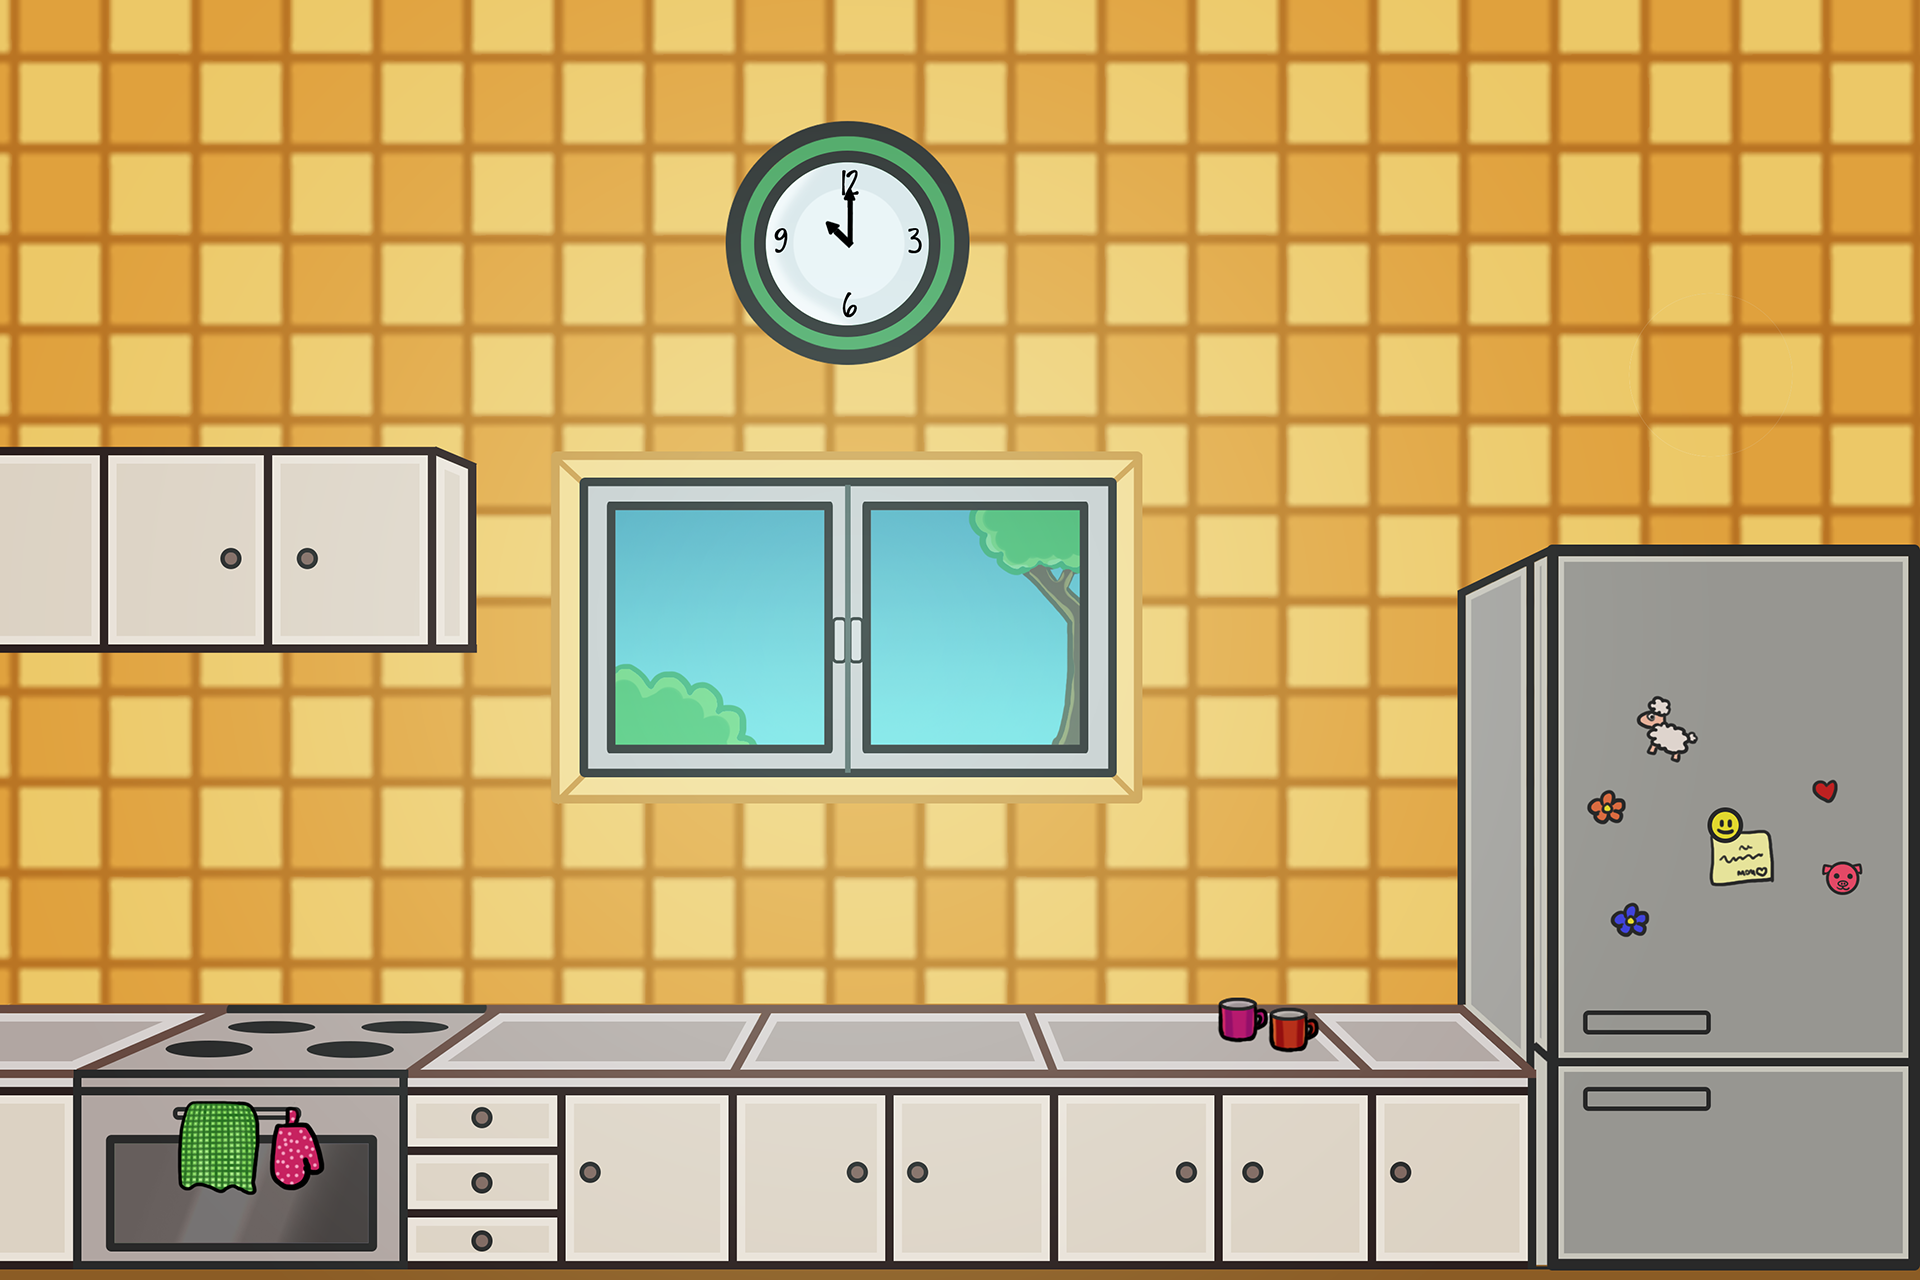
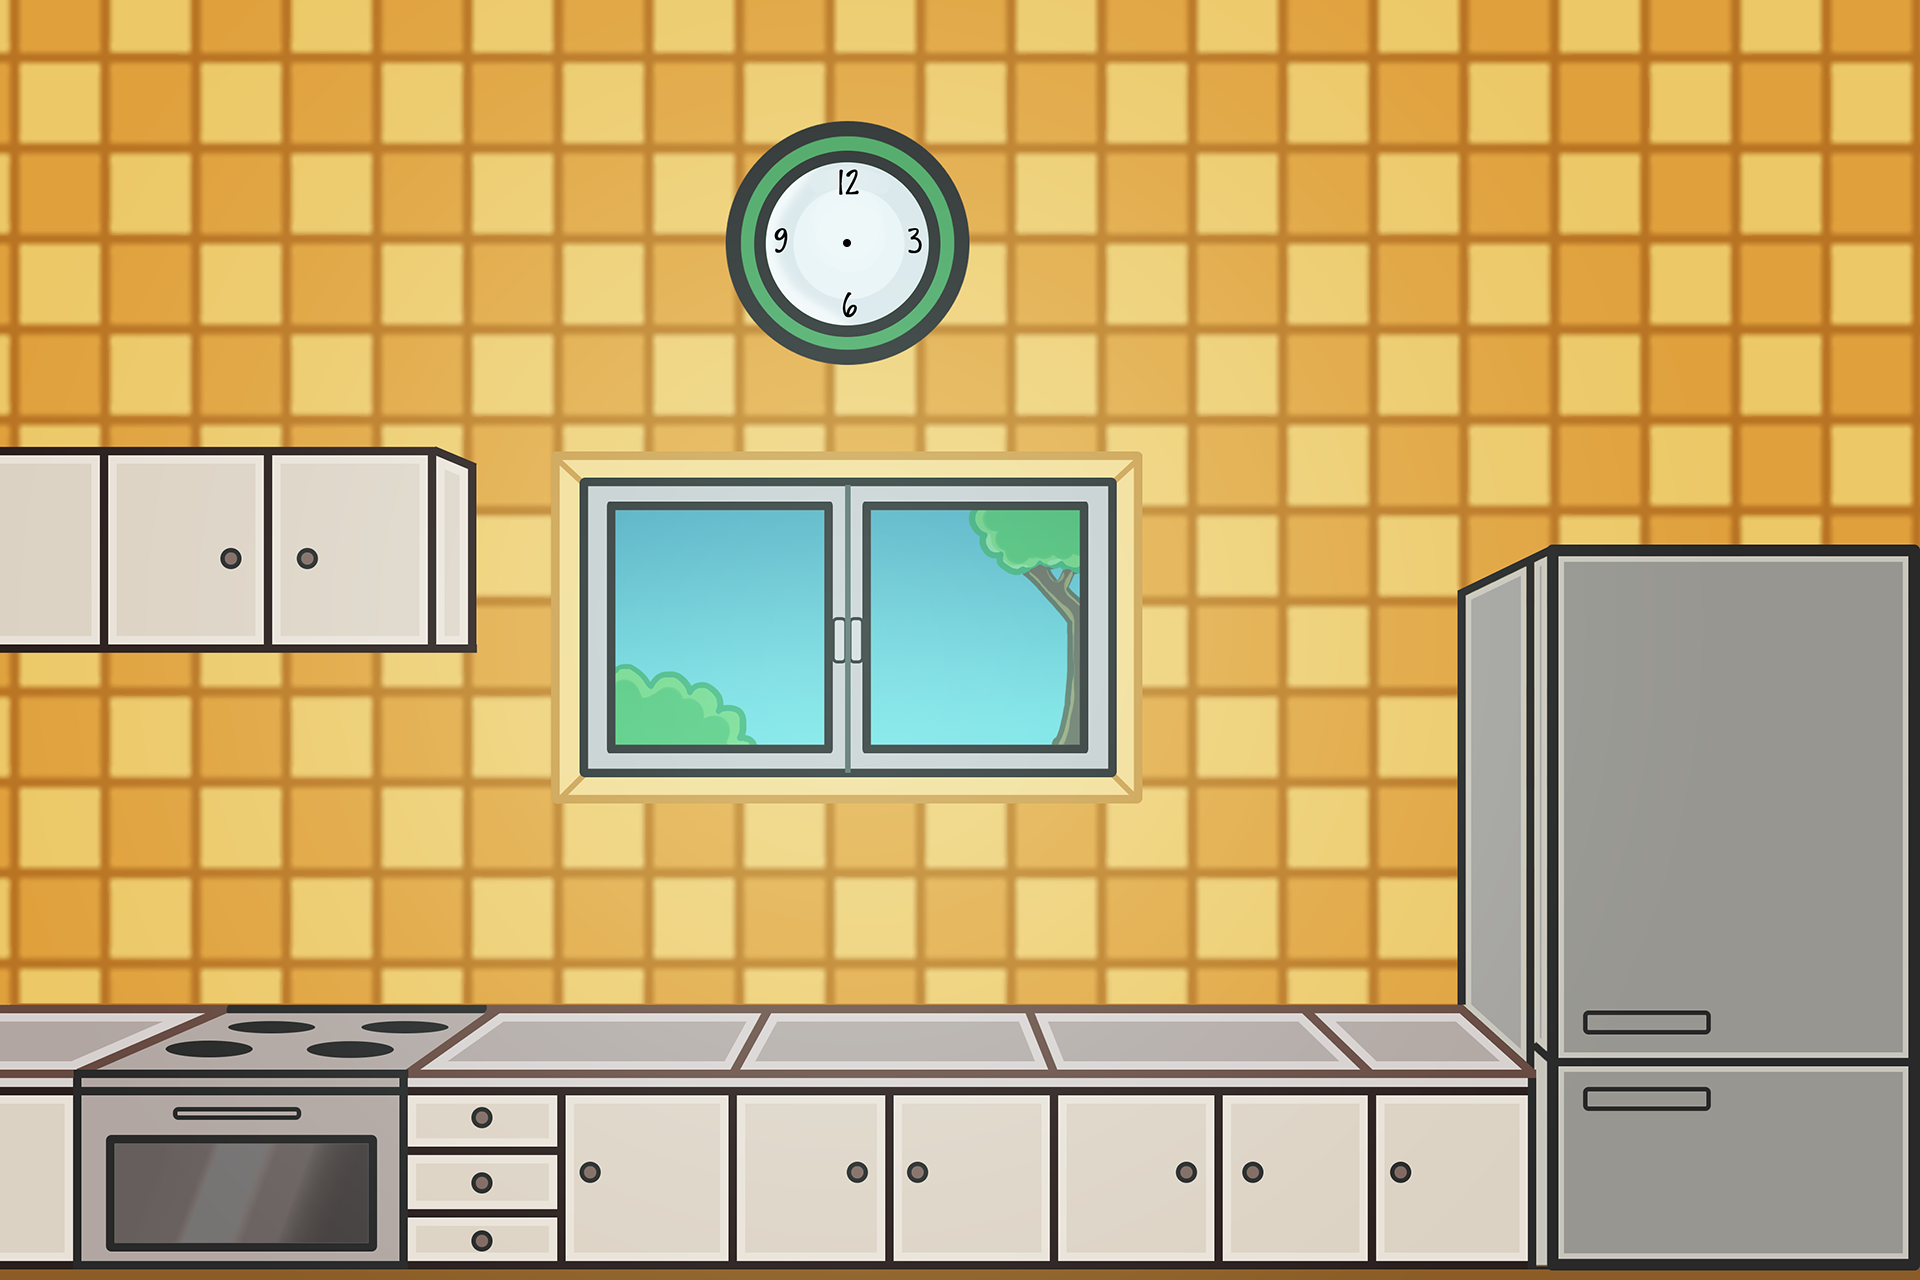
Added live clock

diff --git a/src/states/MainMenu.js b/src/states/MainMenu.js
@@ -8,6 +8,8 @@ import { MENU_HIGHSCORE_FONT, TITLE_OFFSET_Y, MENU_BUTTON_OFFSET } from '../cons
 export default class MainMenu extends Phaser.State {
   create() {
     this.game.add.sprite( 0, 0, $( 'background' ) );
+    this.initClock();
+
     const title = this.add.sprite( this.world.width * 0.5, ( this.world.height - $( TITLE_OFFSET_Y ) ) * 0.5, $( 'title' ) );
     title.anchor.set( 0.5 );
 
@@ -42,6 +44,17 @@ export default class MainMenu extends Phaser.State {
     this.add.tween( buttonWiki ).to( { y: this.world.height - MENU_BUTTON_OFFSET }, 500, Phaser.Easing.Exponential.Out, true );
 
     this.camera.flash( 0x000000, 500, false );
+  }
+
+  initClock() {
+    const now = new Date();
+    this.minuteDial = this.game.add.sprite( 847, 243, $( 'minute-dial' ) );
+    this.minuteDial.anchor.setTo( 0.5, 1 );
+    this.minuteDial.angle = ( now.getMinutes() / 60 ) * 360;
+
+    this.hourDial = this.game.add.sprite( 847, 243, $( 'hour-dial' ) );
+    this.hourDial.anchor.setTo( 0.5, 1 );
+    this.hourDial.angle = ( ( now.getHours() % 12 ) / 12 ) * 360;
   }
 
   initOptions() {
@@ -145,5 +158,12 @@ export default class MainMenu extends Phaser.State {
     this.camera.onFadeComplete.add( () => {
       this.game.state.start( 'Credits' );
     }, this );
+  }
+
+  update() {
+    const now = new Date();
+    this.minuteDial.angle = ( now.getMinutes() / 60 ) * 360;
+
+    this.hourDial.angle = ( ( now.getHours() % 12 ) / 12 ) * 360;
   }
 }

diff --git a/src/UI/GameUI.js b/src/UI/GameUI.js
@@ -24,10 +24,22 @@ export default class GameUI {
     this.timeAdvance = new Phaser.Signal();
 
     this.game.add.sprite( 0, 0, $( 'background' ) );
+
     this.initScore();
     this.initHealthBar();
     this.initPauseScreen();
     this.initGameoverScreen();
+  }
+
+  initClock() {
+    const now = new Date();
+    this.minuteDial = this.game.add.sprite( 847, 243, $( 'minute-dial' ) );
+    this.minuteDial.anchor.setTo( 0.5, 1 );
+    this.minuteDial.angle = ( now.getMinutes() / 60 ) * 360;
+
+    this.hourDial = this.game.add.sprite( 847, 243, $( 'hour-dial' ) );
+    this.hourDial.anchor.setTo( 0.5, 1 );
+    this.hourDial.angle = ( ( now.getHours() % 12 ) / 12 ) * 360;
   }
 
   initScore() {
@@ -111,7 +123,16 @@ export default class GameUI {
     this.screenGameoverGroup.visible = false;
   }
 
+  updateClock() {
+    const now = new Date();
+    this.minuteDial.angle = ( now.getMinutes() / 60 ) * 360;
+
+    this.hourDial.angle = ( ( now.getHours() % 12 ) / 12 ) * 360;
+  }
+
   updateUI() {
+    this.updateClock();
+
     switch ( this.stateStatus ) {
     case 'paused': {
       if ( !this.runOnce ) {

diff --git a/src/states/Preloader.js b/src/states/Preloader.js
@@ -9,6 +9,8 @@ const resources = {
 		[ 'overlay', 'img/ui/overlay.png' ],
 		[ 'sheet', 'img/ui/sheet.png' ],
 
+    [ 'minute-dial', 'img/assets/minute-dial.png' ],
+    [ 'hour-dial', 'img/assets/hour-dial.png' ],
     [ 'nutrition-bar-background', 'img/ui/nutrition-bar-background.png' ],
     [ 'heart', 'img/assets/heart.png' ],
   ],

diff --git a/gulpfile.js b/gulpfile.js
@@ -190,9 +190,6 @@ function scaleAssets() {
 
 function scaleDefault() {
   gulp.src( STATIC_PATH + "/img/**/*-50.{jpg,png}" )
-    .pipe( imageResize( {
-      percentage: 50
-    } ) )
     .pipe( rename( function( path ) {
       path.basename = path.basename.replace( '-50', '' );
     } ) )
